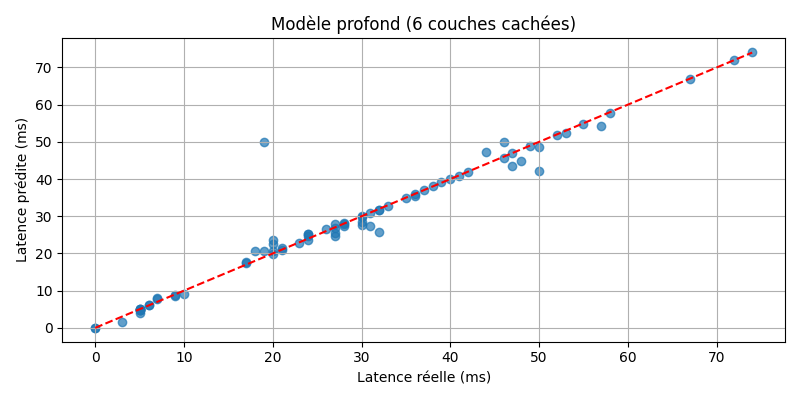
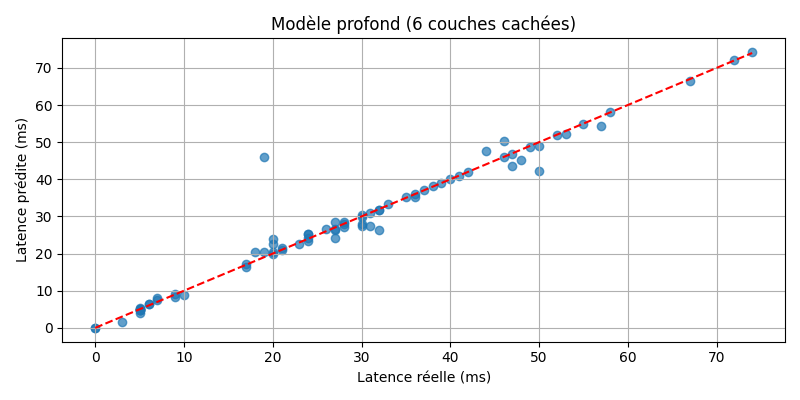
Last update

diff --git a/src/model_training.py b/src/model_training.py
@@ -45,11 +45,11 @@ class DeepLatencyModel6Layers(nn.Module):
     def forward(self, x):
         return self.model(x)
 
-def train_latency_model(X_train, y_train, input_dim, epochs=1000, lr=0.001):
+def train_latency_model(X_train, y_train, input_dim, epochs=600, lr=0.001):
     model = DeepLatencyModel6Layers(input_dim)
     criterion = nn.MSELoss()
     optimizer = torch.optim.Adam(model.parameters(), lr=lr)
-
+    train_losses = []
     for epoch in range(epochs):
         model.train()
         outputs = model(X_train)
@@ -58,9 +58,25 @@ def train_latency_model(X_train, y_train, input_dim, epochs=1000, lr=0.001):
         optimizer.zero_grad()
         loss.backward()
         optimizer.step()
+        train_losses.append(loss.item())
 
         if (epoch + 1) % 100 == 0:
             print(f"Époque {epoch+1}/{epochs} - Perte : {loss.item():.4f}")
+    # La courbe de perte
+    os.makedirs("graphs", exist_ok=True)
+    plt.figure(figsize=(8, 4))
+    plt.plot(train_losses, label="Perte d'entraînement")
+    plt.xlabel("Époques")
+    plt.ylabel("Loss (MSE)")
+    plt.title("Courbe de perte - Modèle classique")
+    plt.legend()
+    plt.grid(True)
+    plt.tight_layout()
+    plt.savefig("graphs/classic_loss_curve.png")
+    plt.close()
+
+    return model
+
 
     return model
 

diff --git a/src/generate_mse_plot.py b/src/generate_mse_plot.py
@@ -1,0 +1,23 @@
+import matplotlib
+matplotlib.use('Agg')  # Empêche l'usage de Tkinter
+import matplotlib.pyplot as plt
+import os
+
+# MSE réels
+model_names = ["Complet", "Nettoyé (sans IoT)", "GRL (Unlearning)"]
+mse_values = [308.4881, 12.3643, 151.4719]
+
+os.makedirs("graphs", exist_ok=True)
+
+plt.figure(figsize=(8, 5))
+bars = plt.bar(model_names, mse_values)
+plt.ylabel("Erreur quadratique moyenne (MSE)")
+plt.title("Comparaison des modèles IA (MSE)")
+plt.grid(axis='y')
+
+for bar in bars:
+    yval = bar.get_height()
+    plt.text(bar.get_x() + bar.get_width()/2, yval + 5, f"{yval:.1f}", ha='center', va='bottom')
+
+plt.tight_layout()
+plt.savefig("graphs/comparaison_mse_models.png")
